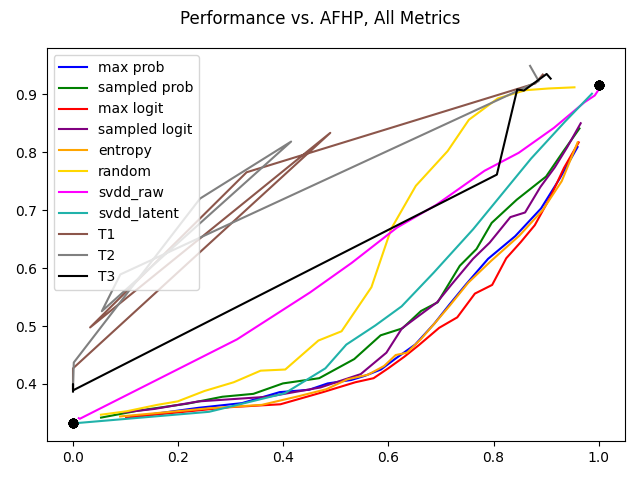
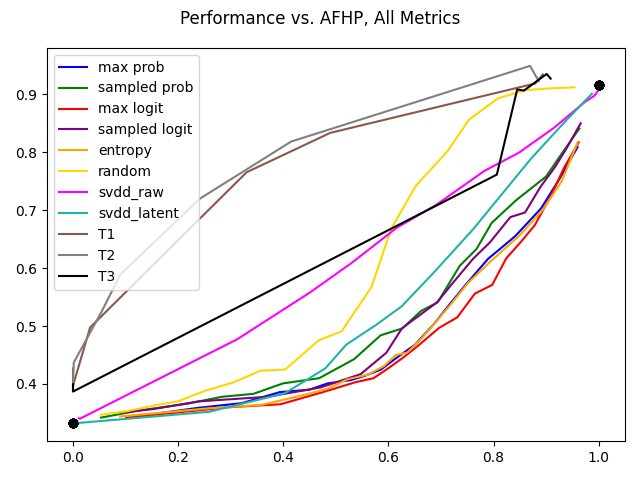
recover plots

diff --git a/full_analysis.py b/full_analysis.py
@@ -72,31 +72,17 @@ def flatten_list(lst):
 
 quant_eval_file_name = "AAA_quant_eval_model_200015872.txt"
 colors = {
-    "max prob": "fuchsia",
-    # "sampled prob": "green",
-    # "max logit": "red",
-    # "sampled logit": "purple",
-    # "entropy": "orange",
-    "random": "royalblue",
-    # "svdd_raw": "fuchsia",
-    "svdd_latent": "forestgreen",
+    "max prob": "blue",
+    "sampled prob": "green",
+    "max logit": "red",
+    "sampled logit": "purple",
+    "entropy": "orange",
+    "random": "gold",
+    "svdd_raw": "fuchsia",
+    "svdd_latent": "lightseagreen",
     "T1": "tab:brown",
-    # "T2": "gray",
-    "T3": "gray"
-}
-linestyles = {
-    "max prob": "dashed",
-    "random": "dotted",
-    "svdd_latent": "dashdot",
-    "T1": "solid",
-    "T3": "solid"
-}
-labels = {
-    "max prob": "max_prob",
-    "random": "random",
-    "svdd_latent": "svdd_latent",
-    "T1": "S_obs",
-    "T3": "S_weak_rep"
+    "T2": "gray",
+    "T3": "black"
 }
 helped_logs = {"max prob": {}, "sampled prob": {}, "max logit": {}, "sampled logit": {}, "entropy": {}, "random": {}, "svdd_raw": {}, "svdd_latent": {}, "T1": {}, "T2": {}, "T3": {}}
 log_dir = f"logs/procgen/{args.test_env}"
@@ -119,7 +105,6 @@ for exp_dir in os.listdir(log_dir):
         helped_logs[log_key][perc] = os.path.join(f"logs/procgen/{args.test_env}", exp_dir, sorted(render_logs)[-1])  # always get last/most updated one
 for exp_dir in os.listdir(skyline_log_dir):
     # TODO: CHANGE HERE #
-    # PPO-procgen-help-coinrun_aisc-type-T2-query-cost-2.0-d8b42b10
     if f"-{args.test_env}-" in exp_dir:
         contents = os.listdir(os.path.join(skyline_log_dir, exp_dir))
         if any([".txt" in content for content in contents]):
@@ -131,8 +116,6 @@ for exp_dir in os.listdir(skyline_log_dir):
                 log_key = "T3"
             query_cost = float(re.search(r"query-cost-([\d.]+)-", exp_dir).group(1))
             helped_logs[log_key][query_cost] = os.path.join(skyline_log_dir, exp_dir)
-# print("WAH DA FUH")
-# print(helped_logs["T1"].keys())
 
 
 # Weak agent in train environment
@@ -461,19 +444,14 @@ if args.plotting:
             afhp_means, afhp_stds, afhp_sems = get_statistics_nested(help_props_by_perc[metric], True)
             rew_means, rew_stds, rew_sems = get_statistics_nested(rew_by_perc[metric], True)
             adj_rew_means, adj_rew_stds, adj_rew_sems = get_statistics_nested(adj_rew_by_perc[metric], True)
-            axes5.plot(afhp_means, rew_means, color = colors[metric], label = labels[metric], linestyle = linestyles[metric])
+            sort_idx = np.argsort(afhp_means)
+            axes5.plot(afhp_means[sort_idx], rew_means[sort_idx], color = colors[metric], label = metric)
             # Adding 0% ask for help and 100% ask for help
-            axes6.plot(afhp_means, rew_means, color = colors[metric], label = labels[metric], linestyle = linestyles[metric])
-            # axes6.plot(0, test_perf_mean, marker = "o", color = "black")
-            # axes6.plot(1, expert_perf_mean, marker = "o", color = "black")
-        axes6.axhline(y = test_perf_mean, color = "black", linestyle = (0, (1, 10)), label = "weak on hard")
-        axes6.axhline(y = expert_perf_mean, color = "black", linestyle = (0, (3, 10, 1, 10)), label = "expert on hard")
+            axes6.plot(afhp_means[sort_idx], rew_means[sort_idx], color = colors[metric], label = metric)
+            axes6.plot(0, test_perf_mean, marker = "o", color = "black")
+            axes6.plot(1, expert_perf_mean, marker = "o", color = "black")
         axes5.legend()
         axes6.legend()
-        axes5.set_xlabel("Ask-For-Help Percentage")
-        axes5.set_ylabel("Performance")
-        axes6.set_xlabel("Ask-For-Help Percentage")
-        axes6.set_ylabel("Performance")
         fig5.suptitle("Performance vs. AFHP, All Metrics")
         fig6.suptitle("Performance vs. AFHP, All Metrics")
         fig5.tight_layout()
